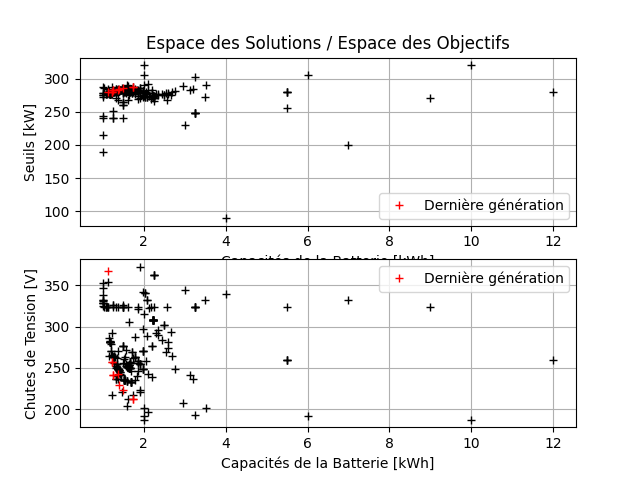
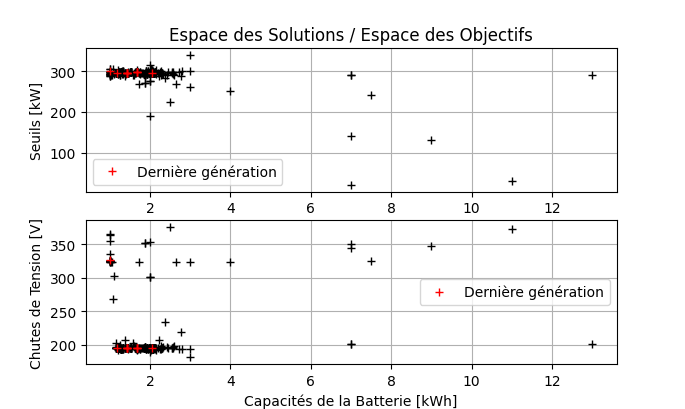
MÀJ CR + Figure NSGA-II.

Changed region(s): [[0.0312, 0.0587, 0.9062, 1.0]]

diff --git a/Compte-Rendu.tex b/Compte-Rendu.tex
@@ -103,7 +103,7 @@
             \label{fig:NSGA2}
         \end{figure}
 
-        Comme affiché sur la figure \ref{fig:NSGA2}, les solutions intéressantes pour notre batterie semblent se trouver aux alentours de $1$ ou $2$~kWh, pour un seuil vers les $275$~kW et une chute de $225$~V (le points rouges représentant la dernière génération créée par notre algorithme).
+        Comme affiché sur la figure \ref{fig:NSGA2}, les solutions intéressantes pour notre batterie semblent se trouver aux alentours de $1$ ou $2$~kWh, pour un seuil vers les $300$~kW et une chute de $200$~V (le points rouges représentant la dernière génération créée par notre algorithme).
         Suivant la simulation, les résultats peuvent énormément changer, et il est conseiller de relancer plusieurs fois l'algorithme afin de trouver des solutions potentiellement meilleures.
         Par ailleurs, étant donné l'absence de \guillemotleft{}~\emph{crowding\_distance}~\guillemotright{}, nommé \guillemotleft{}~critère de distance~\guillemotright{} en français, nos solutions tendent à se rassembler en un amas compact; augmenter la mutation peut sensiblement améliorer ce problème.
 
